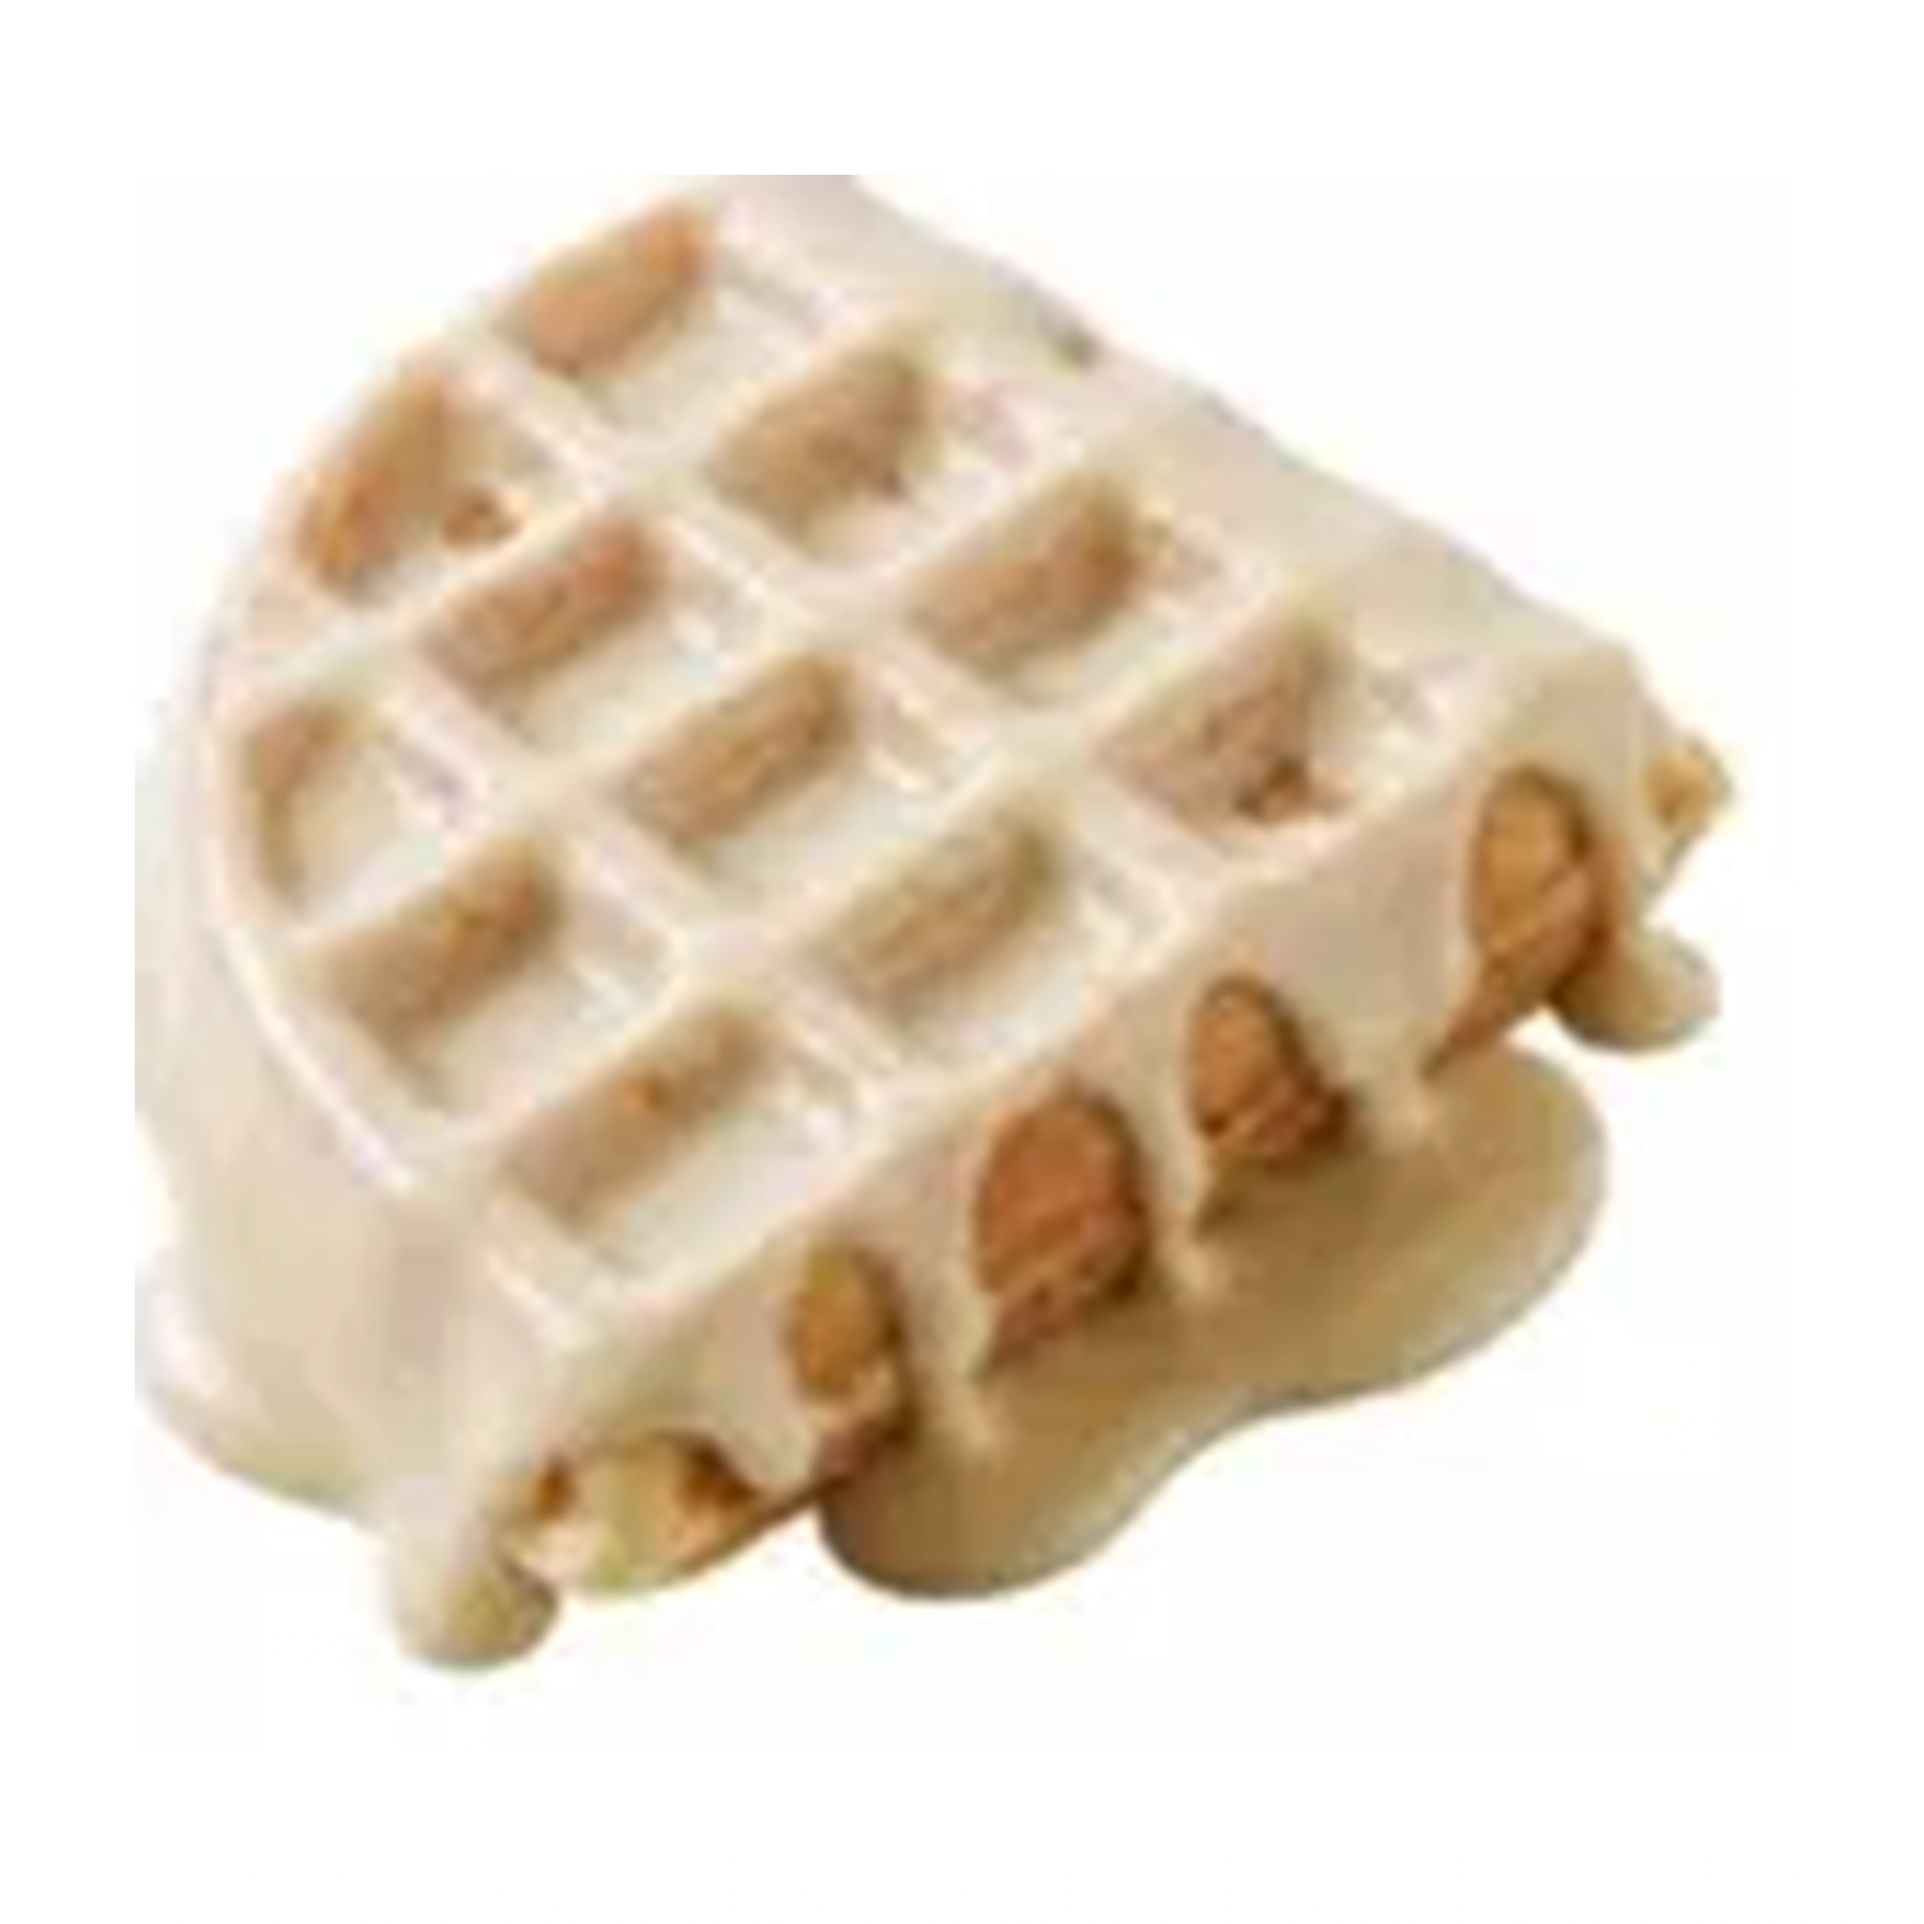
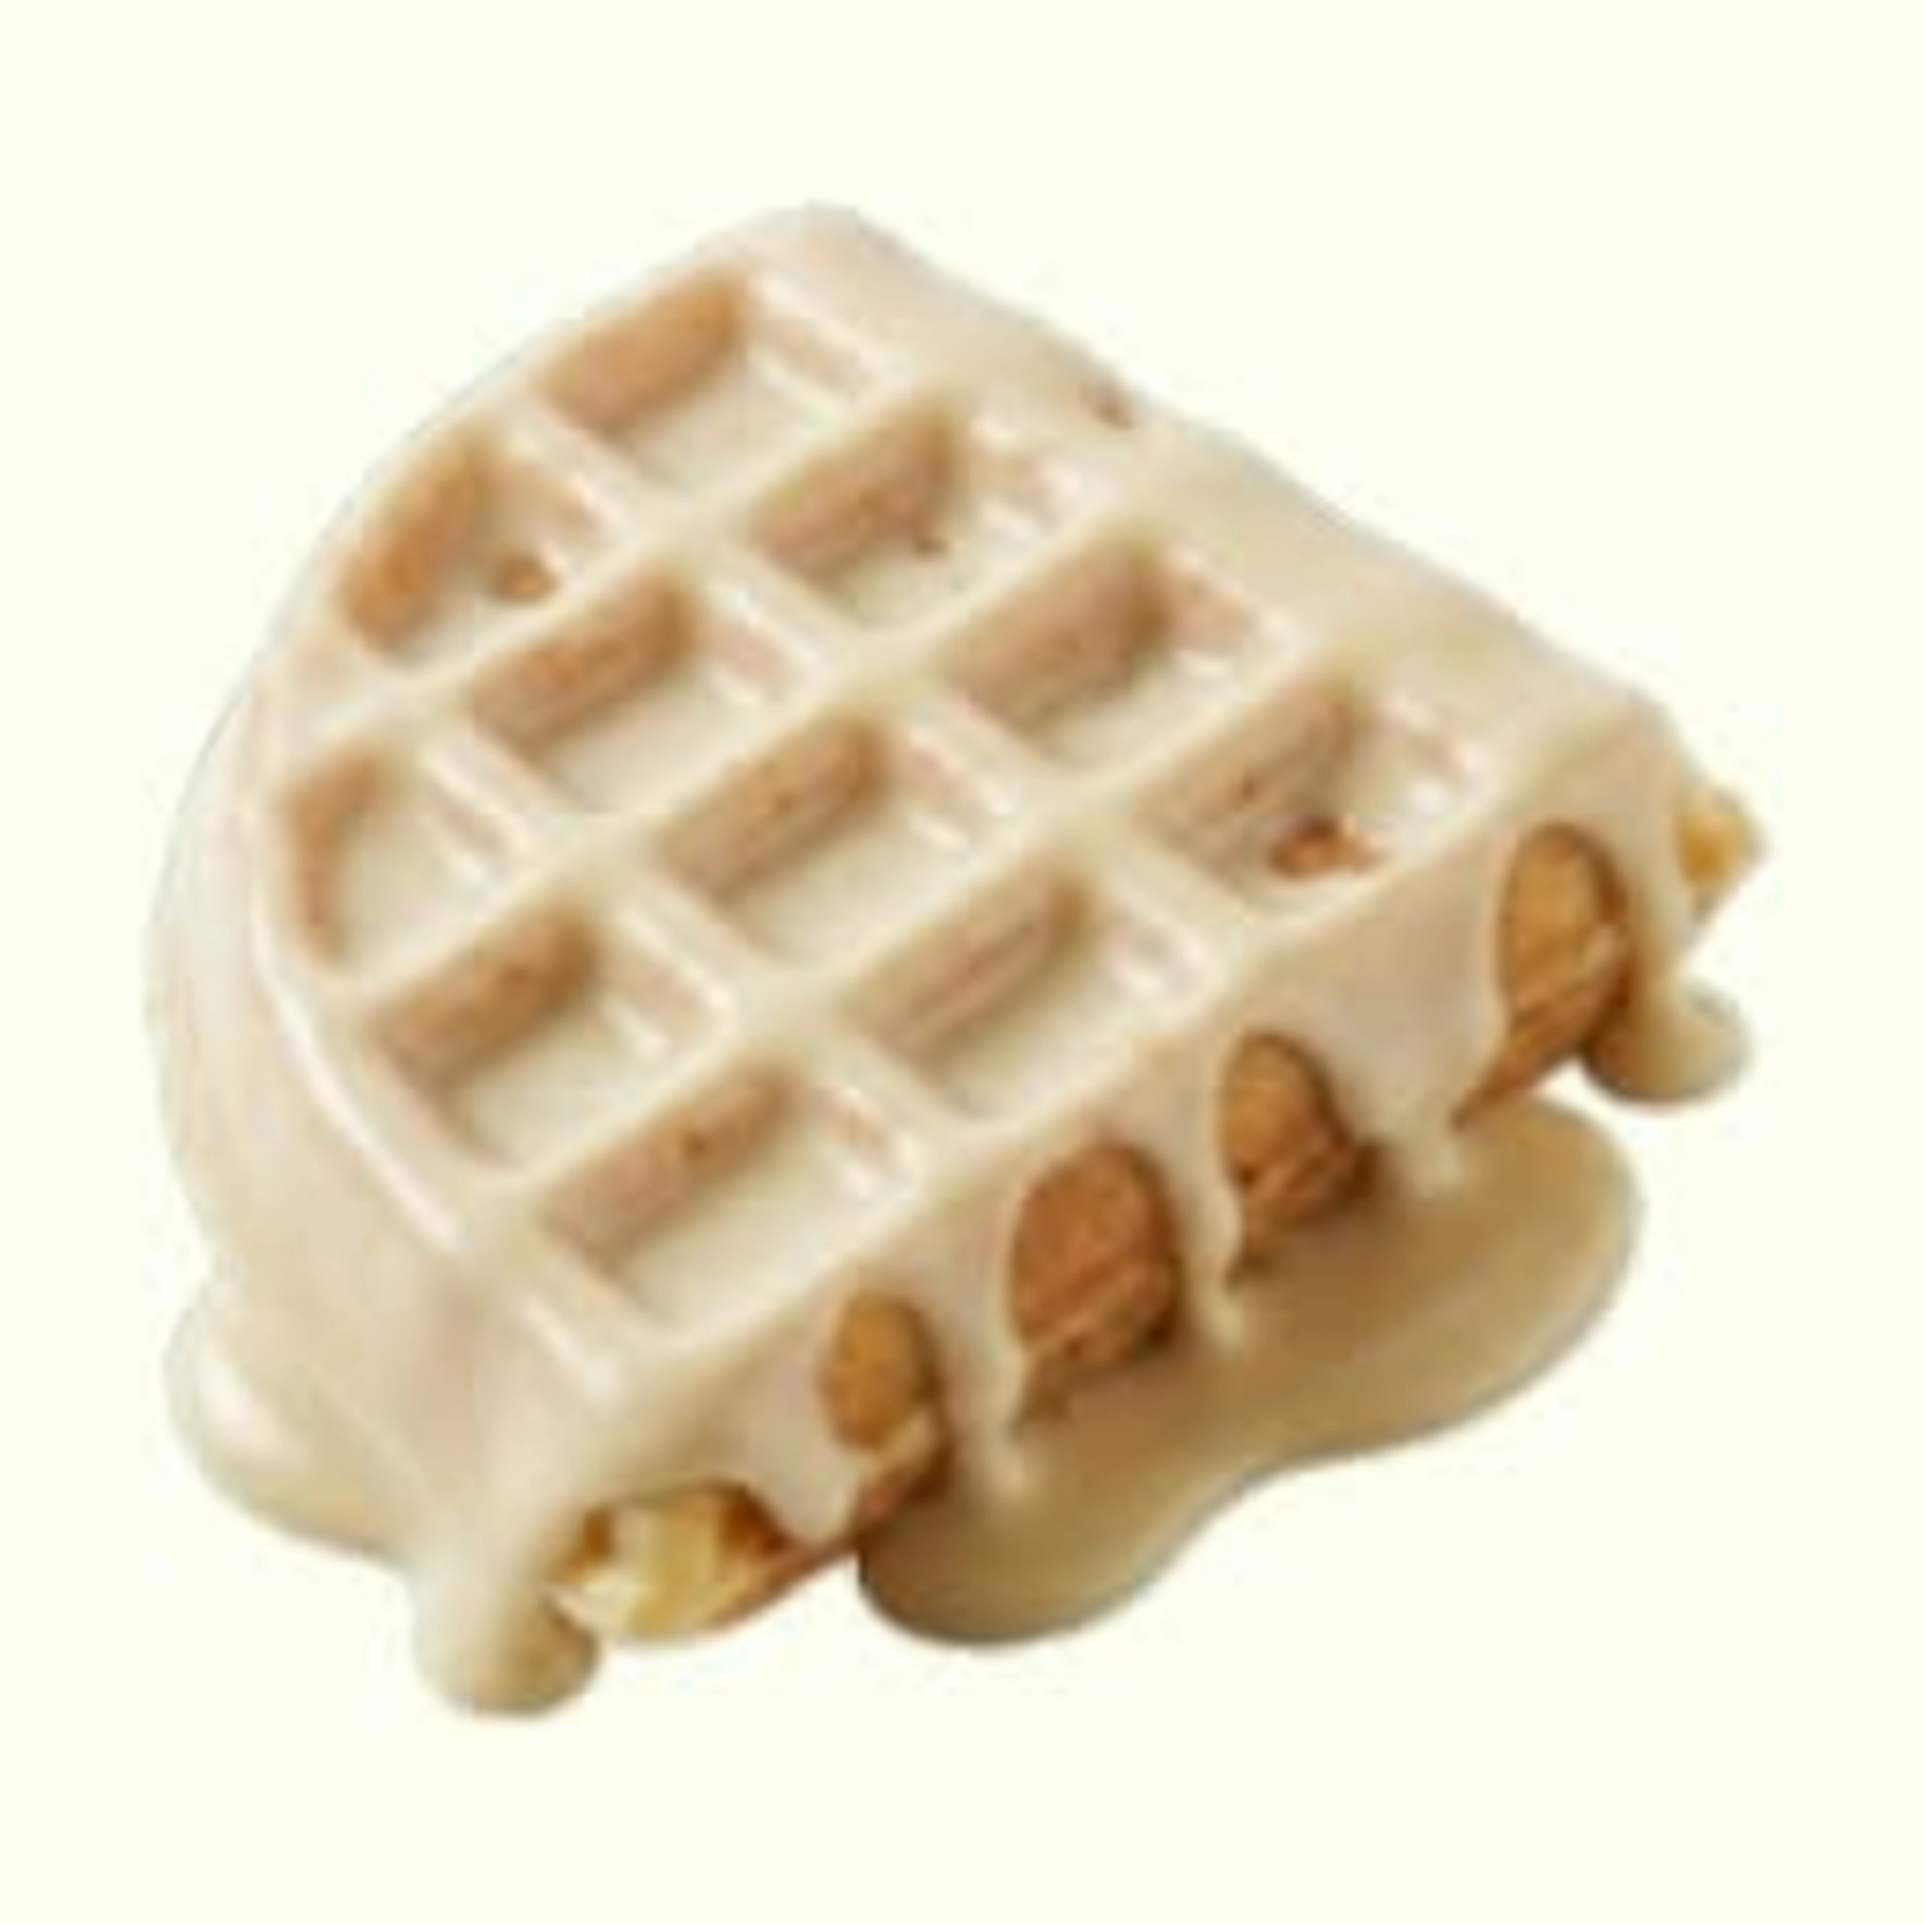
Show complete waffle photos with 4K product details

diff --git a/app.js b/app.js
@@ -65,7 +65,7 @@
   }
 
   function productCard(m) {
-    return `<button class="card" data-id="${m[0]}"><div class="tile">${m[0].includes('mochi') ? `<span class="badge">${t('mochi')}</span>` : ''}<img src="assets/products/${m[0]}.webp" onerror="this.onerror=null;this.src='assets/placeholder.svg'" width="120" height="120" loading="lazy" alt=""></div><div class="name">${m[1]}</div><div class="desc">${m[4 + LI[state.lang]]}</div><div class="price">${money(m[3])}</div></button>`;
+    return `<button class="card" data-id="${m[0]}"><div class="tile">${m[0].includes('mochi') ? `<span class="badge">${t('mochi')}</span>` : ''}<img src="assets/products/${m[0]}.webp?v=2" onerror="this.onerror=null;this.src='assets/placeholder.svg'" width="120" height="120" loading="lazy" alt=""></div><div class="name">${m[1]}</div><div class="desc">${m[4 + LI[state.lang]]}</div><div class="price">${money(m[3])}</div></button>`;
   }
 
   function classicCard() {
@@ -136,7 +136,7 @@
   }
 
   function openDetail(item) {
-    openSheet(`<div class="tile big"><img src="assets/products/${esc(item[0])}.webp" alt="" width="120" height="120"></div>` +
+    openSheet(`<div class="tile big product-photo"><img src="assets/products/4k/${esc(item[0])}.webp?v=2" alt="" width="240" height="240"></div>` +
       `<h3 id="sheet-title">${esc(itemName(item))}</h3><p>${esc(itemDesc(item))}</p>` +
       `<div class="price">${esc(money(item[3]))}</div>` +
       `<p class="allergen"><strong>${esc(t('allergens'))}</strong> · ${esc(t('allergenText'))}</p>`);

diff --git a/styles.css b/styles.css
@@ -31,6 +31,9 @@ h2 small{font-size:11.5px;font-weight:600;letter-spacing:.06em;text-transform:up
 .card{text-align:left;background:none;border:0;padding:0;display:block;width:100%}
 .tile{position:relative;aspect-ratio:1;background:var(--soft);border:2px solid var(--ink);border-radius:20px;display:grid;place-items:center}
 .tile img{width:80%;height:80%;object-fit:contain}
+.card:not(.wide) .tile,.tile.product-photo{background:#fcfff2}
+.tile .badge + img{position:absolute;inset:30px 8px 8px;width:calc(100% - 16px);height:calc(100% - 38px)}
+.tile.product-photo{width:min(100%,240px);height:auto}
 .badge{position:absolute;top:8px;left:8px;background:var(--blue);color:var(--bg);font-size:11px;font-weight:600;padding:3px 9px;border-radius:999px}
 .name{font-size:15px;font-weight:600;margin-top:8px;line-height:1.2}
 .desc{font-size:12.5px;color:var(--muted);margin-top:2px;line-height:1.3;display:-webkit-box;-webkit-line-clamp:2;-webkit-box-orient:vertical;overflow:hidden}

diff --git a/assets/products/README.md b/assets/products/README.md
@@ -1,12 +1,8 @@
 # Wiffy Waffy menu product photos
 
-The 10 product images correspond to the 10 product IDs in `data.js`.
-The `classic-mix-alternate.webp` image is the second photographed example of the Classic flavour combination.
+- `assets/products/<product-id>.webp` contains the 640 × 640 WebP shown in menu cards.
+- `assets/products/4k/<product-id>.webp` contains the 4096 × 4096 WebP shown in product details.
 
-- `assets/products/<product-id>.webp`: optimized **640 × 640** images for cards/details on mobile.
-- `assets/products/4k/<product-id>.webp`: **4096 × 4096** high-resolution export masters.
-- All 22 assets were cropped from the user-provided original Wiffy Waffy menu poster (709 × 1568 screenshot) and scaled with Lanczos + mild sharpening.
-- No ingredients or photo details were generated or fabricated.
-- **Important**: a 4K export from a small screenshot does not recover native 4K photographic detail. Replace these images with original professional food photos when available.
+The nine Top Picks and Seoul photos come from the supplied waffle crops. Each waffle is centered with padding and upscaled with Lanczos and mild sharpening. The source resolution limits fine detail.
 
-The site deliberately references the smaller files to avoid loading 4K masters in every card.
+The Classic card and its alternate photo use the original menu poster assets. The Classic picker uses its interactive flavour preview.
